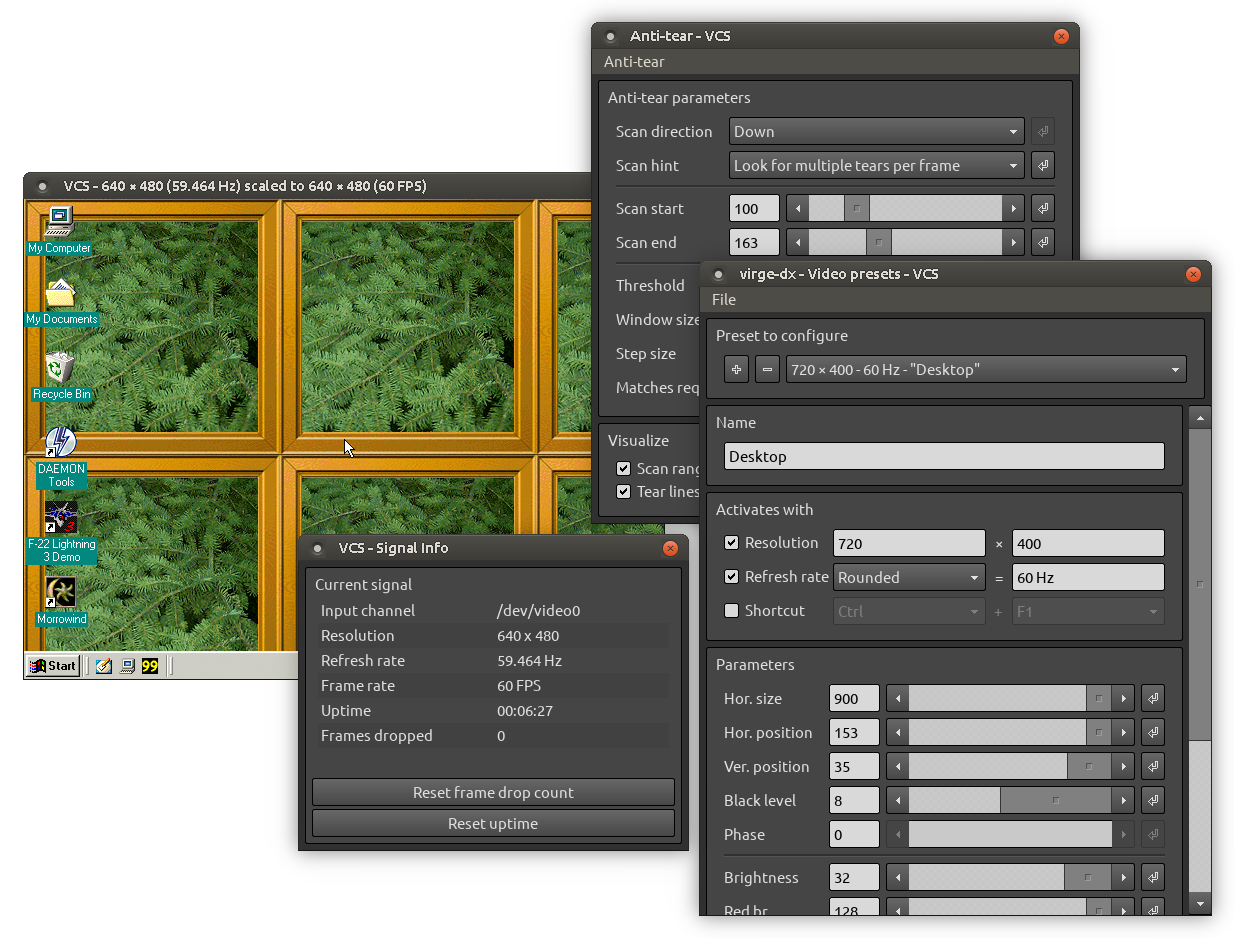
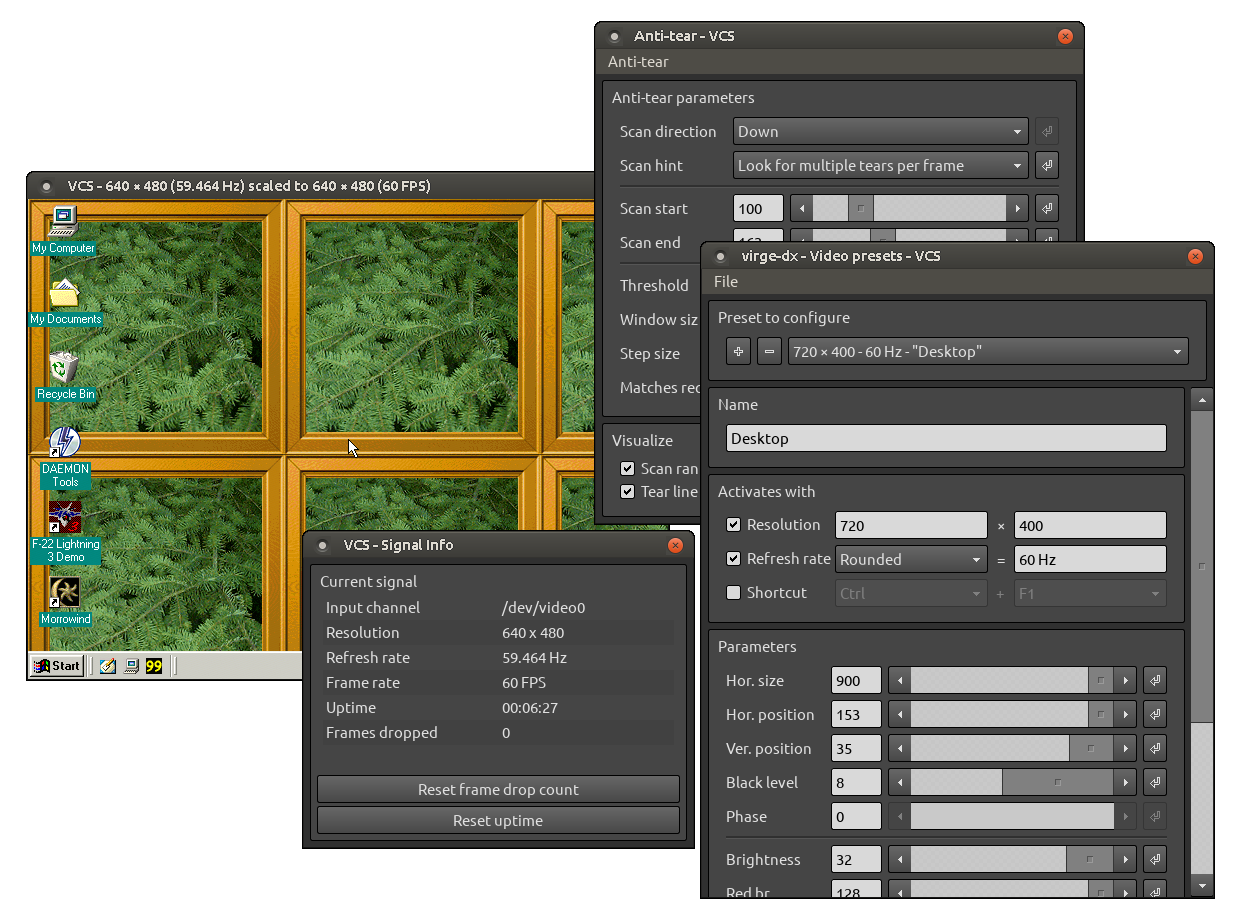
Update README.md
Tweak the general program screenshot a bit.

Changed region(s): [[0.0, 0.0, 1.0, 1.0], [0.4003, 0.6384, 0.4927, 0.7904]]

diff --git a/README.md b/README.md
@@ -4,7 +4,8 @@ A third-party capture tool for Datapath's VisionRGB range of capture cards. Grea
 
 VCS interfaces with compatible capture device to display the capture output in a window on your desktop. Additionally, you can apply filters, scalers, anti-tearing, and various other adjustments to the output before it's displayed.
 
-![](./images/vcs-2.4-with-dialogs.png)
+![VCS 2.4](./images/vcs-2.4-with-dialogs.png)\
+*A screenshot of VCS 2.4 showing the capture window (in the background) and some of the control dialogs.*
 
 ## Features
 
